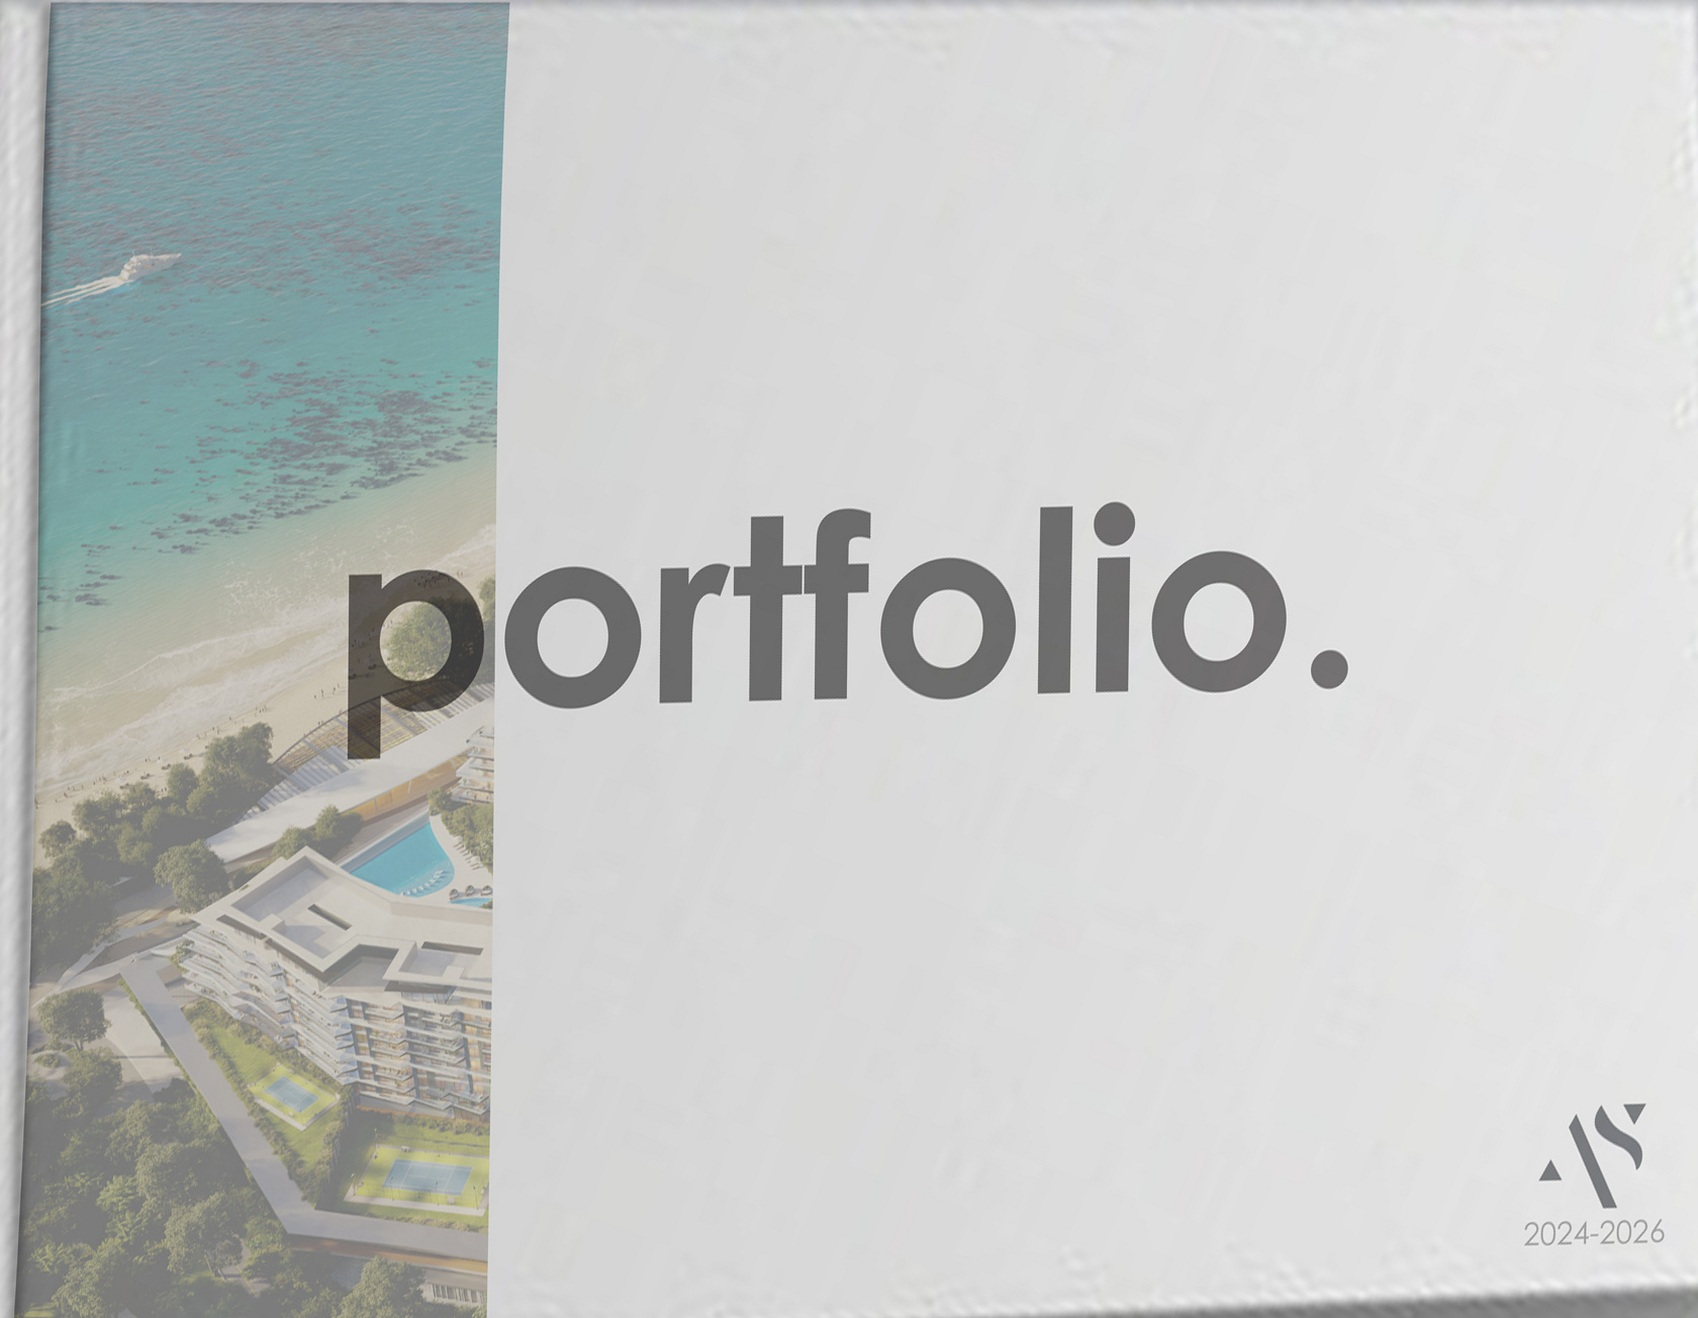
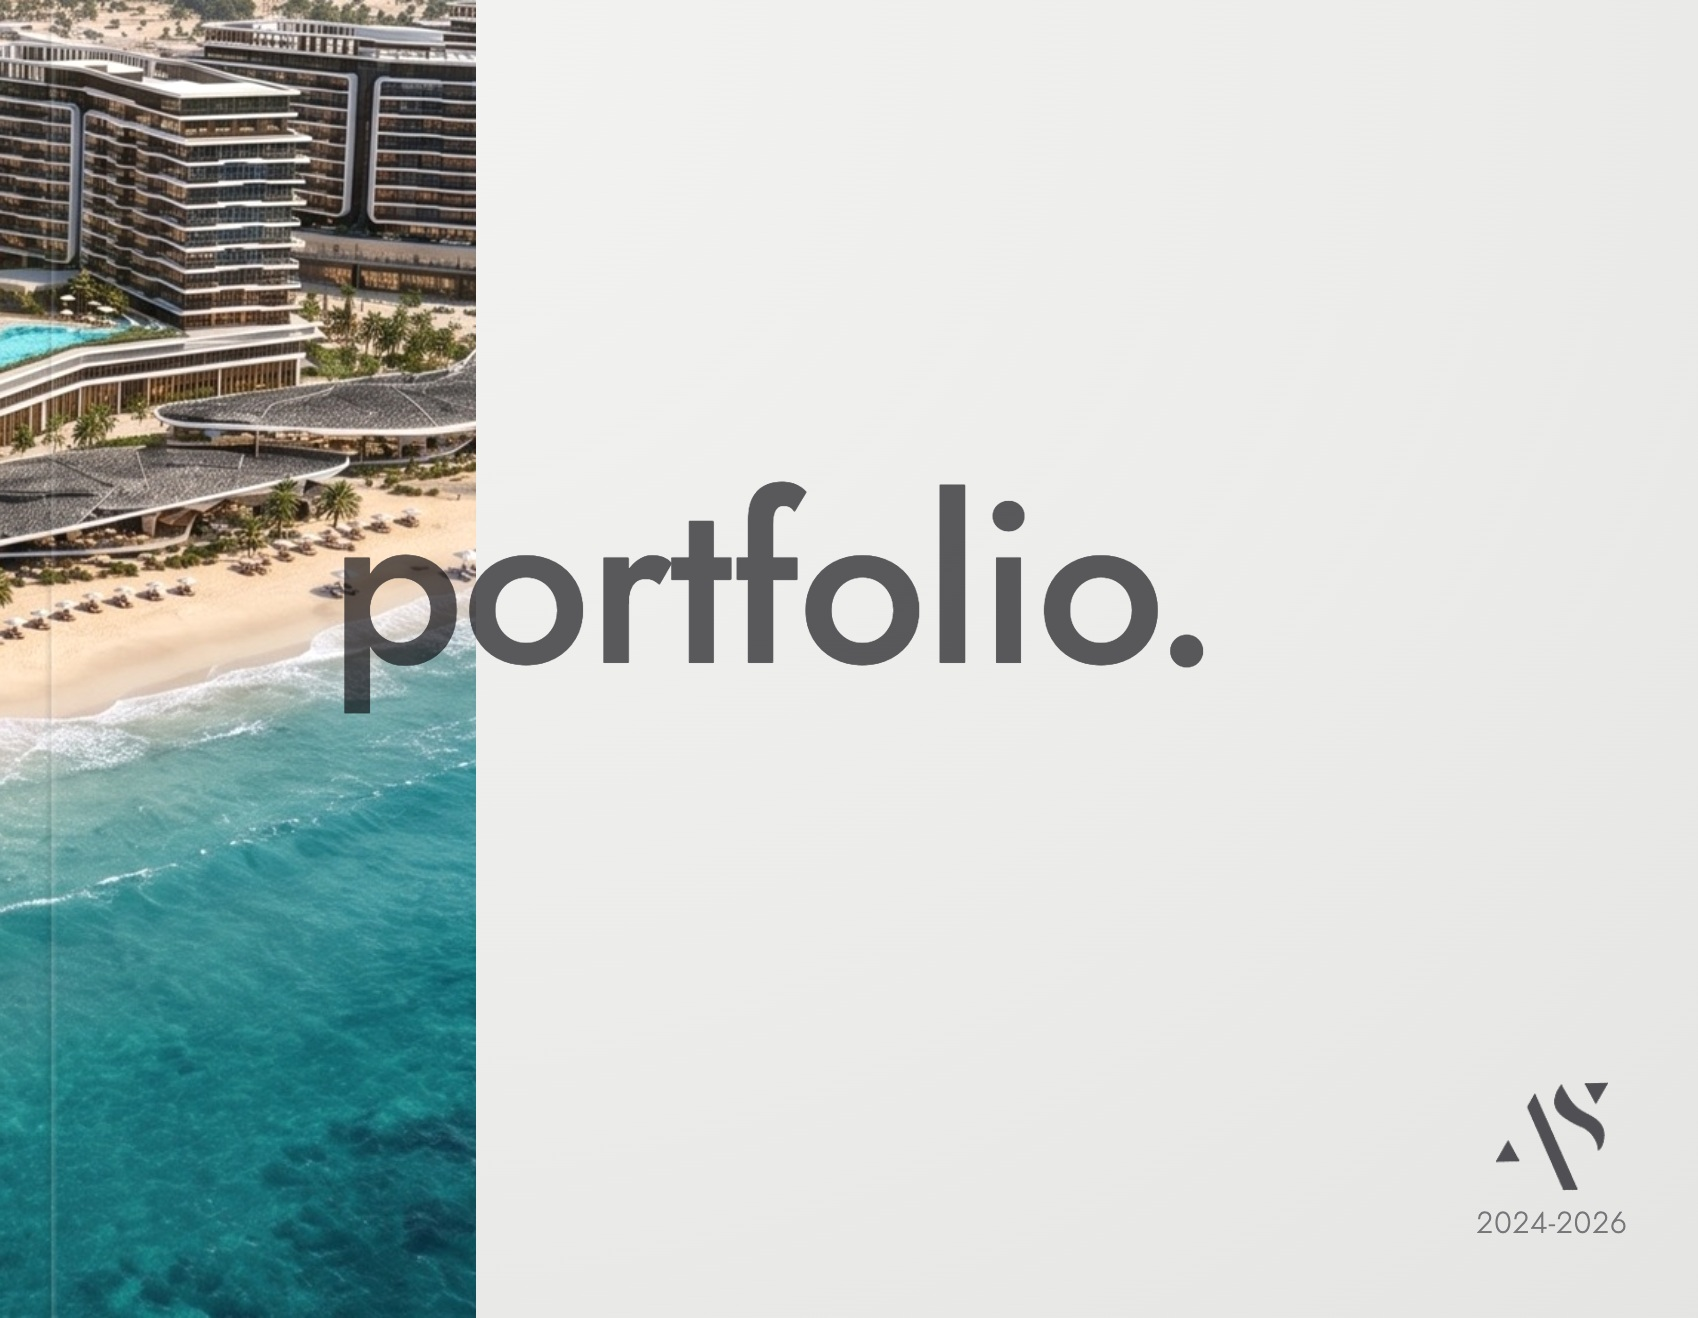
Rebuild the front cover as a sharp design; update Instagram link

diff --git a/index.html b/index.html
@@ -222,7 +222,7 @@
     <ul class="social">
       <li><a href="https://www.linkedin.com/in/apurva-sontakke/" target="_blank" rel="noopener">LinkedIn</a></li>
       <li><a href="https://www.behance.net/apurvasontakke23" target="_blank" rel="noopener">Behance</a></li>
-      <li><a href="https://www.instagram.com/arch_captures/" target="_blank" rel="noopener">Instagram</a></li>
+      <li><a href="https://www.instagram.com/thearchcaptures/" target="_blank" rel="noopener">Instagram</a></li>
       <li><a href="https://www.re-thinkingthefuture.com/author/apurvasontakke/" target="_blank" rel="noopener">Rethinking the Future</a></li>
     </ul>
     <div class="downloads">

diff --git a/js/app.js b/js/app.js
@@ -4,7 +4,7 @@
   const pad = n => String(n).padStart(3, '0');
   // Pages are crops of the PDF's own photos of the printed book (hd), with lighter previews (md).
   // ?v: the crops changed shape; make browsers fetch the new ones rather than reuse cached ones.
-  const src = (n, size) => `img/pages/${size}/p${pad(n)}.${size === 'hd' ? 'jpg' : 'webp'}?v=2`;
+  const src = (n, size) => `img/pages/${size}/p${pad(n)}.${size === 'hd' ? 'jpg' : 'webp'}?v=3`;
 
   // Under the flipbook lies the PDF's photo of the open book at the current spread (1-27), supplying the
   // table, shadows and page edges; the inside pages are exact crops of it, so at rest the two match.
